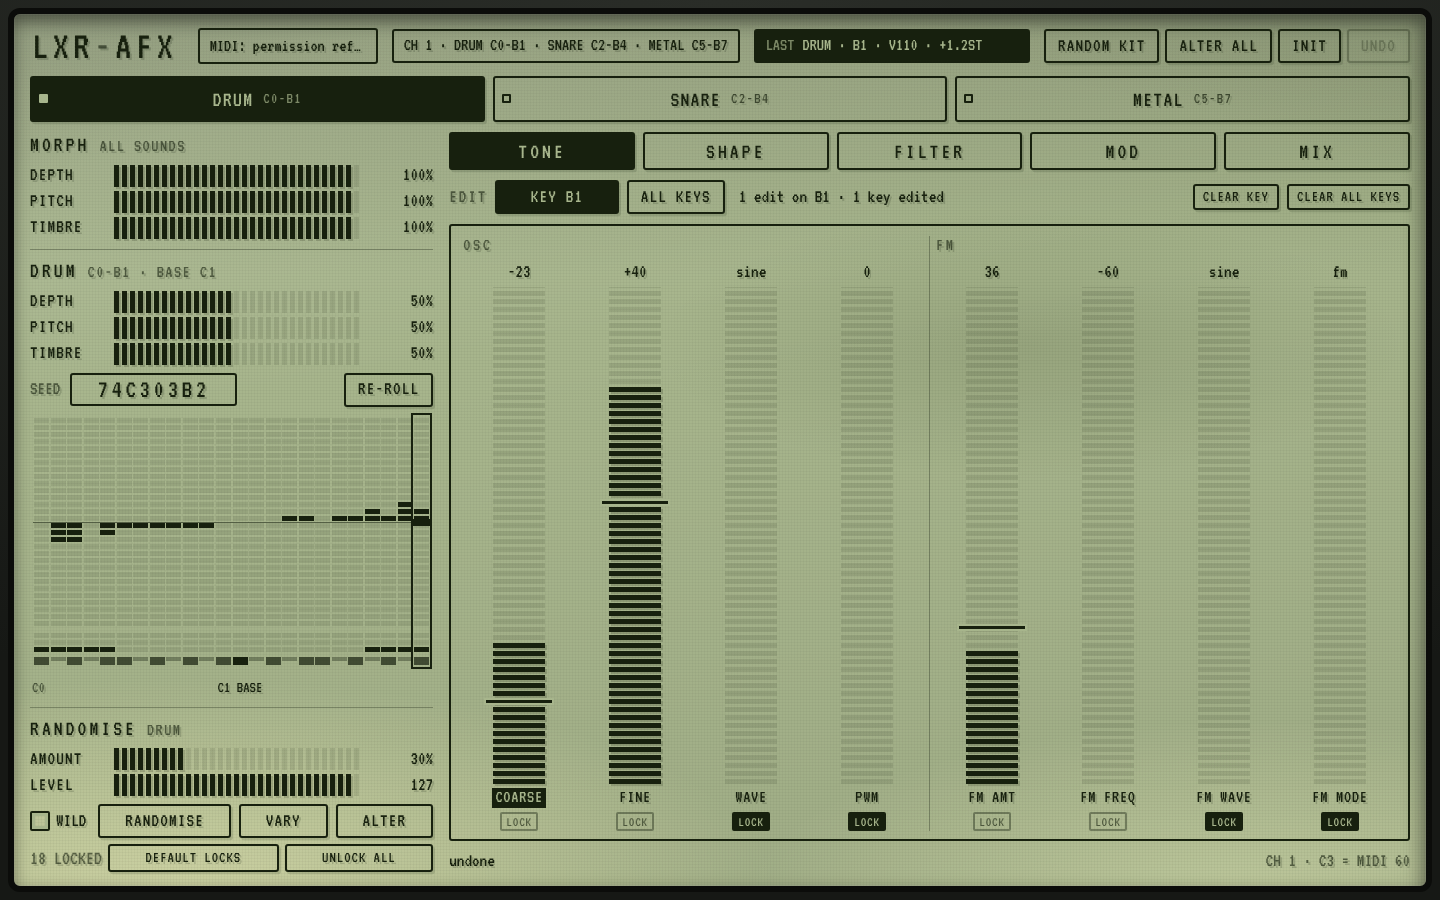
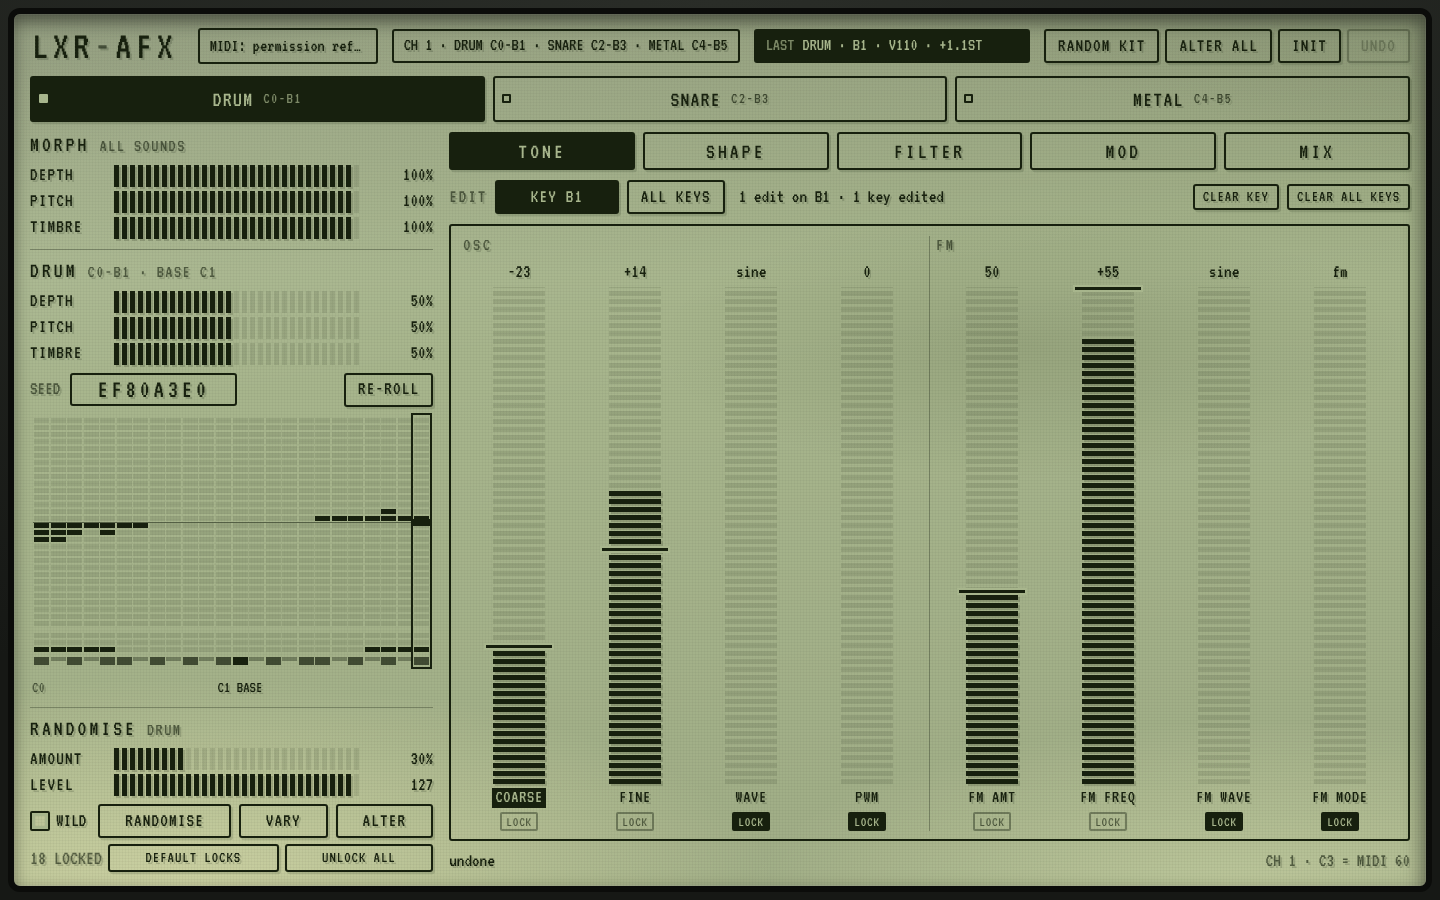
Zones: two octaves each, no overlap: drum C0-B1, snare C2-B3, metal C4-B5
Each zone's base key is its middle C (C1, C3, C5).

Claude-Session: https://claude.ai/code/session_018ENZqU77miybkZNfffD9E3

diff --git a/sound/schema.js b/sound/schema.js
@@ -22,14 +22,14 @@ import { EXTRA_CLICK_NAMES } from '../engine/lxr-clicks.js';
 export { PAR, MOD_TARGETS, MOD_TARGET_VOICE_RANGES };
 export const NUM_PARAMS = PAR.END_OF_SOUND_PARAMETERS;
 
-// AFX mode: three sounds, one per engine type, each on its own zone of the keyboard (MIDI channel 1), all three able to
-// sound at once. engineVoice: which of the engine's six voice instances makes it; trigger: the note-on index;
+// AFX mode: three sounds, one per engine type, each on its own two-octave zone of the keyboard (MIDI channel 1), no
+// overlap, all three able to sound at once. Each zone's base is its middle C. engineVoice: which of the engine's six voice instances makes it; trigger: the note-on index;
 // sources: the kit voices of the same engine type that the randomiser draws from; zone: its keys (C3 = MIDI 60) and the
 // key that plays its base sound
 export const SOUNDS = [
   { id: 'drum', name: 'DRUM', engineVoice: 0, trigger: 0, sources: [0, 1, 2], zone: { lo: 24, hi: 47, base: 36 } }, // C0-B1, base C1
-  { id: 'snare', name: 'SNARE', engineVoice: 3, trigger: 3, sources: [3], zone: { lo: 48, hi: 83, base: 60 } }, // C2-B4, base C3
-  { id: 'metal', name: 'METAL', engineVoice: 4, trigger: 4, sources: [4, 5], zone: { lo: 84, hi: 119, base: 96 } }, // C5-B7, base C6
+  { id: 'snare', name: 'SNARE', engineVoice: 3, trigger: 3, sources: [3], zone: { lo: 48, hi: 71, base: 60 } }, // C2-B3, base C3
+  { id: 'metal', name: 'METAL', engineVoice: 4, trigger: 4, sources: [4, 5], zone: { lo: 72, hi: 95, base: 84 } }, // C4-B5, base C5
 ];
 // the sound whose zone holds a note, or -1
 export const soundOfNote = (note) => SOUNDS.findIndex((s) => note >= s.zone.lo && note <= s.zone.hi);

diff --git a/index.html b/index.html
@@ -15,7 +15,7 @@
   <header class="top">
     <h1 class="logo">LXR<span>-</span>AFX</h1>
     <div class="lcdbox midi" id="midi-status" title="Web MIDI input">MIDI: off</div>
-    <div class="lcdbox zones" title="MIDI channel 1: three zones, all three can sound at once">CH 1 · DRUM C0-B1 · SNARE C2-B4 · METAL C5-B7</div>
+    <div class="lcdbox zones" title="MIDI channel 1: three zones, all three can sound at once">CH 1 · DRUM C0-B1 · SNARE C2-B3 · METAL C4-B5</div>
     <div class="lcdbox last" id="last" aria-live="polite"><span class="dim">LAST</span> <b id="last-text">nothing played yet</b></div>
     <div class="kitrand" role="group" aria-label="Kit randomiser">
       <button class="btn" id="kit-rand" title="All three sounds: variants from the built-in kits">RANDOM KIT</button>
@@ -77,7 +77,7 @@
 
   <div class="start" id="start">
     <button class="btn big" id="start-btn">START AUDIO + MIDI</button>
-    <p>MIDI channel 1: drum on C0-B1, snare on C2-B4, metal on C5-B7, all three at once. Each zone's base key (C1, C3, C6) plays its sound as you made it; the other keys are variants of it.</p>
+    <p>MIDI channel 1: drum on C0-B1, snare on C2-B3, metal on C4-B5, all three at once. Each zone's base key (C1, C3, C5) plays its sound as you made it; the other keys are variants of it.</p>
   </div>
 </main>
 <script type="module" src="app/main.js"></script>

diff --git a/app/main.js b/app/main.js
@@ -130,7 +130,7 @@ function onMidi(e) {
 function noteOn(ch, note, vel) {
   if (ch !== 1) { showLastText(`CH ${ch} · ${noteName(note)} · only channel 1 plays`); return; }
   const sound = soundOfNote(note);
-  if (sound < 0) { showLastText(`${noteName(note)} · outside the zones (C0-B7)`); return; }
+  if (sound < 0) { showLastText(`${noteName(note)} · outside the zones (C0-B5)`); return; }
   play(sound, note, vel);
 }
 async function startMidi() {

diff --git a/README.md b/README.md
@@ -6,7 +6,8 @@ An AFX-mode drum instrument in the browser: three sounds on one MIDI channel, ev
 ![LXR-AFX at 1440 × 900](docs/screenshot.png)
 
 - **Three zones on MIDI channel 1** (C3 = MIDI 60), one for each of the engine's three voice types, all three able to
-  sound at once: **drum** on C0-B1 (base key C1), **snare** on C2-B4 (base C3), **metal** on C5-B7 (base C6). Velocity is used.
+  sound at once: **drum** on C0-B1 (base key C1), **snare** on C2-B3 (base C3), **metal** on C4-B5 (base C5): two octaves each, no overlap, the base
+  key in the middle of each. Velocity is used.
 - **Key morph**: a zone's base key plays its sound as you made it. Every other key plays a variant, changing pitch and
   timbre, more the further it is from the base (each end of a zone is the full amount). Each key's variant is fixed by
   the sound's seed; **re-roll** for a new set. Depth, pitch and timbre sliders for all sounds and per sound; depth 0 plays
